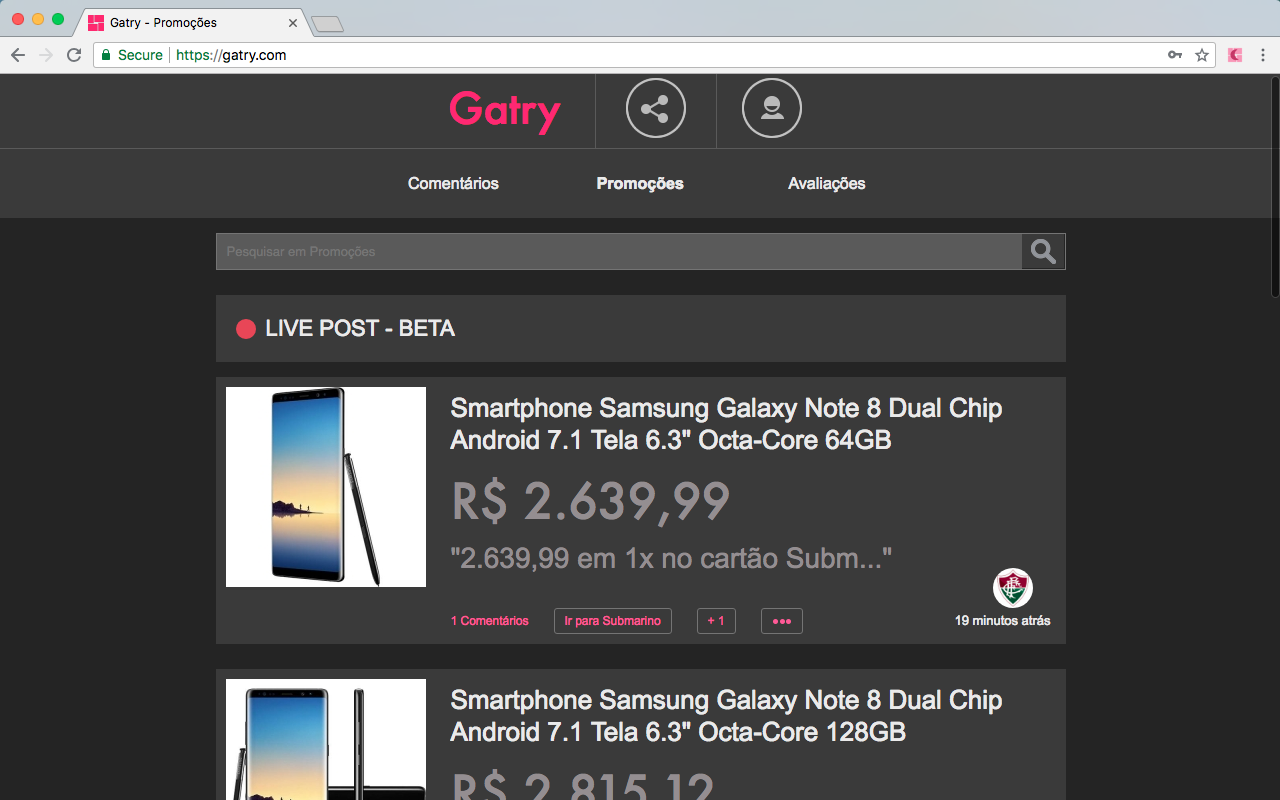
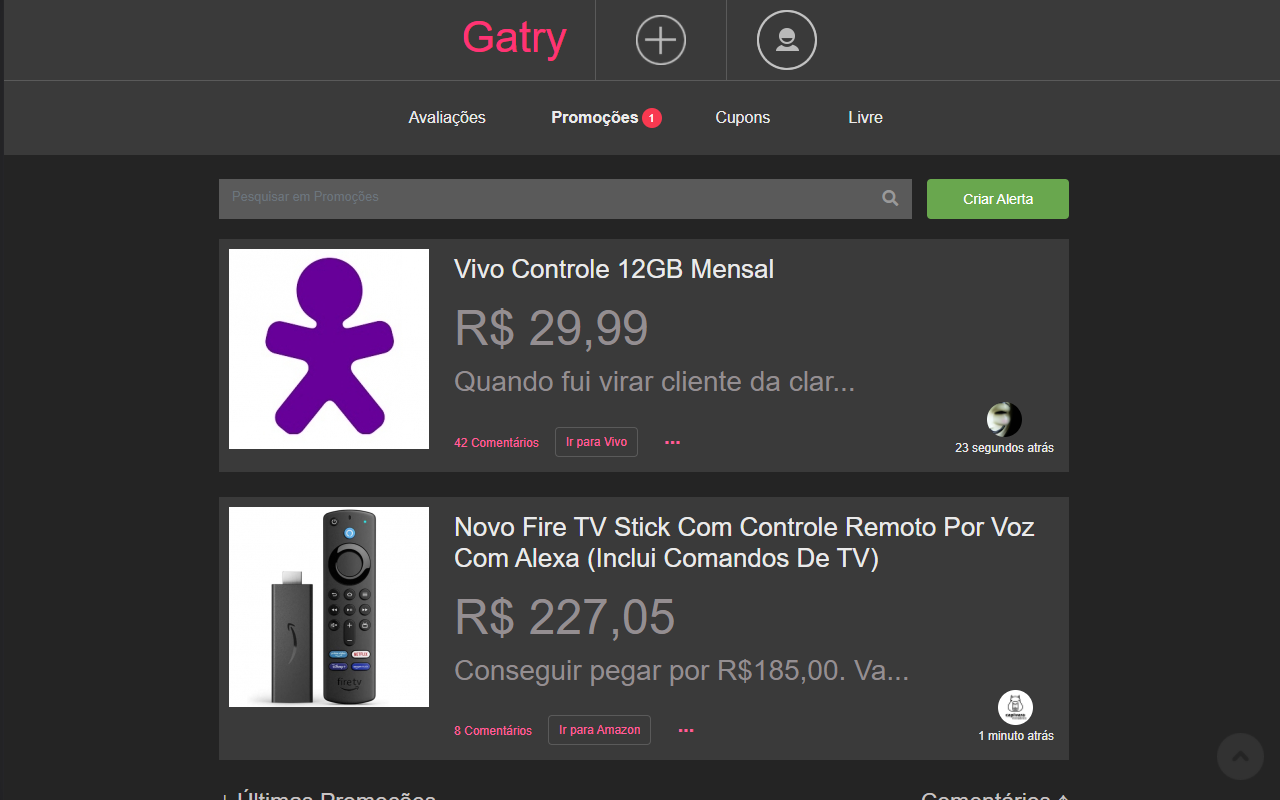
Mudanças devido ao novo layout do site

diff --git a/css/night-mode.css b/css/night-mode.css
@@ -6,9 +6,45 @@ nav, footer {
     background: #3A3A3A !important;
 }
 
-header {
+div.header {
     background: #3A3A3A !important;
-    border-bottom: 1px solid rgb(90, 90, 90) !important;
+    border-bottom: 1px solid #5a5a5a !important;
+}
+
+.top-bar .header .wrapper-header .share {
+    border-right: 1px solid #5a5a5a;
+    border-left: 1px solid #5a5a5a;
+}
+
+.top-bar .menu {
+    border-bottom: 0px !important;
+}
+
+.promotions article, .promotions .load-more {
+    background: #3a3a3a;
+}
+
+.load-more button {
+    background: #3a3a3a;
+}
+
+.promotions article .options .option-other, .promotions article .image {
+    color: #eaeaea;
+}
+
+.promotions article .description h3 a {
+    color: #eaeaea;
+}
+
+.input-group, .tribute-textarea {
+    background: #5a5a5a;
+}
+.form-control, .form-control:focus {
+    background: #5a5a5a;
+}
+
+.search-bar {
+    border: 1px solid rgb(90, 90, 90);
 }
 
 .promocoes h2.blackfriday-aovivo {
@@ -16,10 +52,14 @@ header {
 }
 
 .content {
-    background: rgb(36, 36, 36) !important;
+    background: rgb(58 58 58) !important;
 }
 
 .promocoes .informacoes .opcoes a {
+    color: #FF5E99 !important;
+}
+
+.promotions article .options a, .promotions article .options a, .comments .comment .comment-footer a {
     color: #FF5E99 !important;
 }
 
@@ -43,15 +83,12 @@ header {
     background: #3A3A3A !important;
 }
 
-header .compartilhar .btn-compartilhar {
-    background: url(chrome-extension://__MSG_@@extension_id__/images/icone_compartilhar_dark.png) no-repeat center center !important;
+.top-bar .header .wrapper-header .share a.link-icon {
+    background-image: url(chrome-extension://dgifmigkhfgomhopkfinpboboadogfao/images/icone_adicionar.png);
 }
 
-header a#link-entrar {
-    background: url(chrome-extension://__MSG_@@extension_id__/images/icone_login_dark.png) no-repeat center center !important;
-    /* background-repeat: no-repeat !important;
-    background-position: center center !important;
-    background-size: 50px 50px !important; */
+.top-bar .header .wrapper-header .login a.link-icon {
+    background: url(chrome-extension://dgifmigkhfgomhopkfinpboboadogfao/images/icone_login_dark.png) no-repeat center center !important;
 }
 
 .form-search {
@@ -144,6 +181,10 @@ header .compartilhar {
     border: 1px solid rgb(90, 90, 90) !important;
 }
 
+.promotions article .options .option-store a, .comments .comment .comment-footer a.like {
+    border: 1px solid rgb(90, 90, 90) !important;
+}
+
 textarea {
     background-color: rgb(90, 90, 90) !important;
 }
@@ -177,7 +218,7 @@ a.mais.hidden-xs img {
 }
 
 .promocoes .informacoes .opcoes a.mais {
-    background-image: url(chrome-extension://__MSG_@@extension_id__/images/three-dots-pink.png);
+    background-image: url(chrome-extension://dgifmigkhfgomhopkfinpboboadogfao/images/three-dots-pink.png);
     background-repeat: no-repeat;
     background-position-x: 10px;
     background-position-y: 9px;
@@ -188,5 +229,80 @@ a.mais.hidden-xs img {
 }
 
 body {
-    background-color: #3A3A3A;   
+    background-color: #242424;
+}
+
+#lightcase-content {
+    background-color: #242424 !important;
+}
+
+#lightcase-content h1, #lightcase-content h2, #lightcase-content h3, #lightcase-content h4, #lightcase-content h5, #lightcase-content h6, #lightcase-content p {
+    color: #eaeaea;
+}
+
+.page .no-data, .comments .comment, .comments.comments-user .comment .comment-wrapper {
+    background-color: #3a3a3a !important;
+    border-color: #5a5a5a !important;
+}
+
+.comments .comment .comment-header a {
+    color: #eaeaea;
+}
+
+.btn-blue, .swal2-confirm {
+    background: #FF5E99 !important;
+    border-color: #5a5a5a;
+}
+
+.swal2-cancel {
+    background: #5a5a5a !important;
+    color: #FF5E99 !important;
+}
+
+.comment-control a {
+    color: #FF5E99 !important;
+}
+
+.swal2-popup { 
+    background-color: #242424;
+}
+
+.swal2-content, .swal2-header, .swal2-title {
+    color: #eaeaea;
+}
+
+.comments .comment .comment-answers {
+    border-left: 3px solid #5a5a5a;
+}
+
+.comments .comment .comment-header .comment-time b i {
+    background: #FF5E99;
+}
+
+.comments .comment .comment-header .comment-time b {
+    background: #5d444d;
+}
+
+a:hover, p a {
+    color: #FF5E99;
+}
+
+.ratings article .content .user .info a {
+    color: #eaeaea;
+}
+
+.ratings article .content .user .info .date {
+    color: #eaeaea;
+}
+
+.page h1, .page h2, .page h3 {
+    color: #c8c4c4;
+}
+
+.page .bootstrap-tagsinput, .page input[type=text], .page input[type=email], .page input[type=password], .page textarea, .page input[type=file], .tribute-textarea {
+    background: #5a5a5a;
+}
+
+::selection {
+    background: #5d444d;
 }

diff --git a/js/replace-css.js b/js/replace-css.js
@@ -1,0 +1,10 @@
+var style = document.createElement('link');
+style.rel = 'stylesheet';
+style.type = 'text/css';
+style.href = chrome.extension.getURL('css/night-mode.css');
+(document.head||document.documentElement).appendChild(style);
+
+document.getElementsByClassName('scroll-to-top')[0].children[0].remove();
+var image = document.createElement('img');
+image.src = chrome.extension.getURL('images/up_dark.png');
+document.getElementsByClassName('scroll-to-top')[0].appendChild(image);
